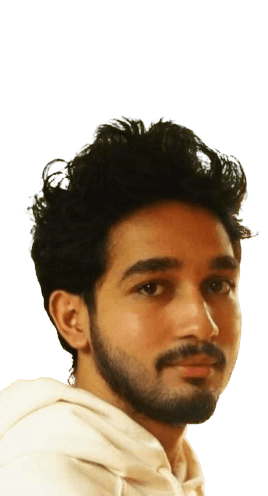
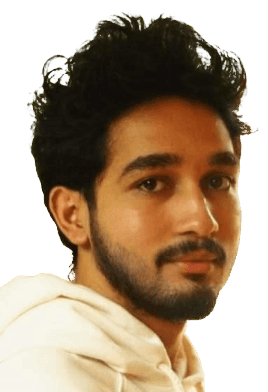
new changes

diff --git a/portfolio.js b/portfolio.js
@@ -5,49 +5,47 @@ function checkVisibility() {
   var tags = $(".fadein");
 
   for (var i = 0; i < tags.length; i++) {
-      var tag = tags[i];
+    var tag = tags[i];
 
-      // Adjust the offset or add additional conditions as needed
-      if ($(tag).offset().top < pageBottom) {
-          // Check if the element doesn't already have the "visible" class
-          if (!$(tag).hasClass("visible")) {
-              $(tag).addClass("visible");
+    // Adjust the offset or add additional conditions as needed
+    if ($(tag).offset().top < pageBottom) {
+      // Check if the element doesn't already have the "visible" class
+      if (!$(tag).hasClass("visible")) {
+        $(tag).addClass("visible");
 
-              // Additional actions when an element becomes visible can be added here
-          }
-      } else {
-          // Check if the element has the "visible" class
-          if ($(tag).hasClass("visible")) {
-              $(tag).removeClass("visible");
-
-              // Additional actions when an element becomes hidden can be added here
-          }
+        // Additional actions when an element becomes visible can be added here
       }
+    } else {
+      // Check if the element has the "visible" class
+      if ($(tag).hasClass("visible")) {
+        $(tag).removeClass("visible");
+
+        // Additional actions when an element becomes hidden can be added here
+      }
+    }
   }
 }
 
 // Run the checkVisibility function when the document is ready
-$(document).ready(function() {
+$(document).ready(function () {
   checkVisibility();
 });
 
 // Run the checkVisibility function on scroll
-$(document).on("scroll", function() {
+$(document).on("scroll", function () {
   checkVisibility();
 });
-
-
+s;
 /*==============Typing Animation==============*/
-var type=new Typed(".typing", {
-  strings:["Web Developer", "Frontend Designer","Full-Stack Developer"],
-  typeSpeed:100,
-  BackSpeed:100,
-  loop:true
-})
-
+var type = new Typed(".typing", {
+  strings: ["Web Developer", "Full-Stack Developer"],
+  typeSpeed: 100,
+  BackSpeed: 100,
+  loop: true,
+});
 
 /*==========="aside-bar" toggle when clicking nav-toggle===========*/
-document.addEventListener("DOMContentLoaded", function() {
+document.addEventListener("DOMContentLoaded", function () {
   let myQuery = document.querySelector(".aside");
 
   document.querySelector(".nav-toggle").addEventListener("click", () => {
@@ -71,14 +69,13 @@ document.addEventListener("DOMContentLoaded", function() {
   window.addEventListener("scroll", () => {
     let myElement = document.querySelector(".aside");
     let myElement2 = document.querySelector(".nav-toggle");
-  
+
     if (myElement) {
       myElement.removeAttribute("id");
-    } 
+    }
 
     if (myElement2) {
       myElement2.removeAttribute("id");
-    } 
+    }
   });
 });
-

diff --git a/portfolio.css b/portfolio.css
@@ -631,8 +631,8 @@ body.dark .row .skills .skill-item {
     margin-top: 10px;
   }
   .home-section .home-img img {
-    max-width: 200px;
-    max-height: 200px;
+    max-width: 300px;
+    max-height: 300px;
   }
   .about-content .row .education {
     flex: 0 0 70%;
@@ -687,9 +687,8 @@ body.dark .row .skills .skill-item {
     width: 70%;
   }
   .home-section .home-img img {
-    max-width: 100px;
-    max-height: 100px;
-    margin-top: -50px;
+    max-width: 150px;
+    max-height: 150px;
   }
   .personal-info .row .info-item {
     flex: 0 0 100%;

diff --git a/index.html b/index.html
@@ -547,7 +547,7 @@
       crossorigin="anonymous"
       referrerpolicy="no-referrer"
     ></script>
-    <script src="/style-switcher.js"></script>
-    <script src="/portfolio.js"></script>
+    <script src="portfolio/style-switcher.js"></script>
+    <script src="portfolio/portfolio.js"></script>
   </body>
 </html>
